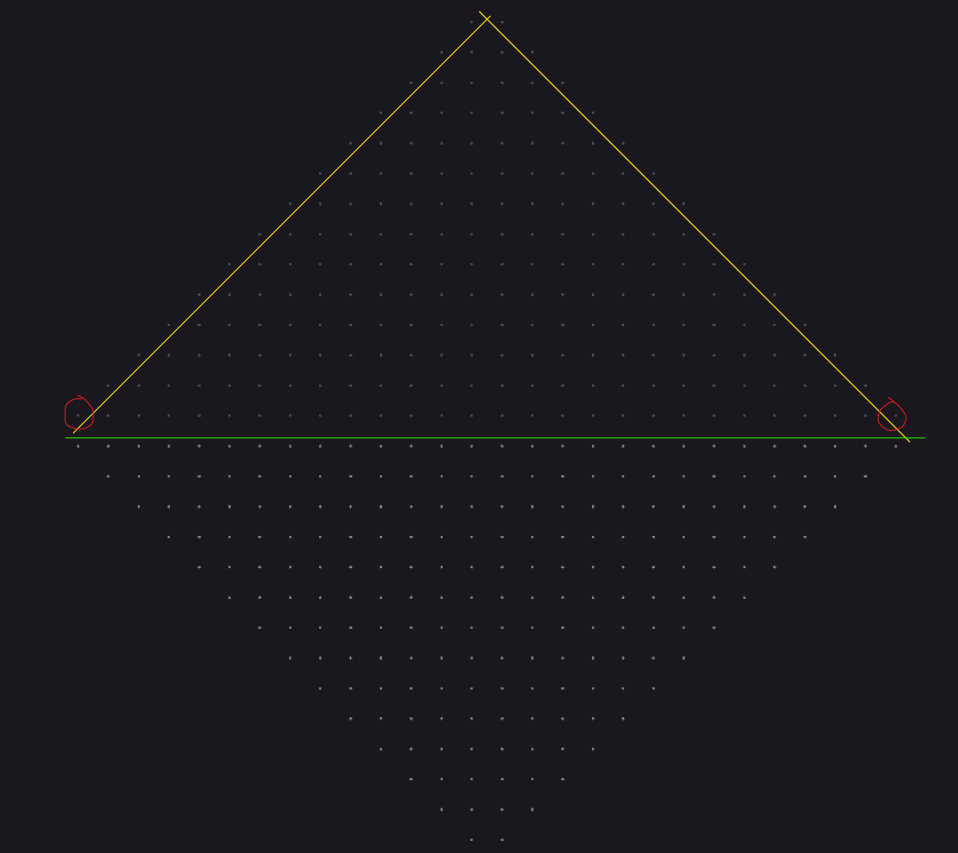
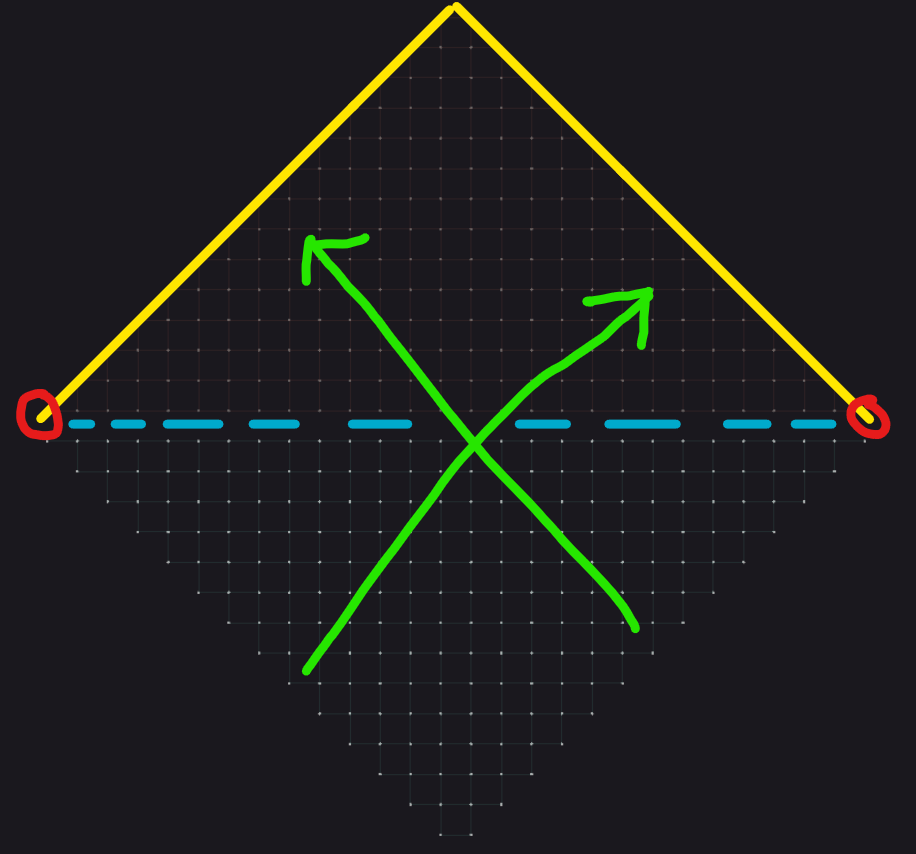
edited terminal post

diff --git a/_posts/2024-05-26-terminal24.md b/_posts/2024-05-26-terminal24.md
@@ -13,7 +13,7 @@ excerpt_separator: <!--more-->
 Our algorithm (in red) defeating the Season 8 global leaderboard leader algorithm.
 
 <!-- begin_excerpt -->
-During my 1st year spring term, I took part in a European regional competition, where 32 teams from all over the continent designed and coded algorithms to play a tower defence game called _Terminal_. Our algorithms were pitted against each other at the end of the week-long competition, where my team consisting of a friend and I achieved 6th place. After the competition, we spent some time adjusting our algorithm, where we achieved 10th position on the Season 8 Global Leaderboard.
+During my 1st year summer term, I took part in a European regional competition, where 32 teams from all over the continent designed and coded algorithms to play a tower defence game called _Terminal_. Our algorithms were pitted against each other at the end of the week-long competition, where my team consisting of a friend and I achieved 6th place. After the competition, we spent some time adjusting our algorithm, where we achieved 10th position on the Season 8 Global Leaderboard.
 <!-- end_excerpt -->
 
 ![t10](/assets/img/terminal-24/t10.png){: .mx-auto.d-block :}
@@ -35,27 +35,33 @@ Given the short amount of time and the large array of decisions, we decided that
 
 ![board](/assets/img/terminal-24/board.png){: .mx-auto.d-block :}
 
-Observing the board above and playing as the player on the lower half of the board (below the green line), we intend to score on the opponent's diagonal edges (the dots above the yellow line). We notice that given the diagonal shape of the board, the weakest parts of the board are actually the two corner locations (circled in red). 
+Observing the board above and playing as the player on the lower half of the board (below the blue line), we intend to score on the opponent's diagonal edges (the yellow lines) following the paths marked out in green. We notice that given the diagonal shape of the board, the weakest parts of the board are actually the two corner locations (circled in red).
 
-Since the oppponent is not able to place any units below the green line (that is friendly territory), there is a severe lack of defence in depth, which is exacerbated by the location's proximity to friendly lines.
+Since the oppponent is not able to place any units below the blue line (our friendly territory), there is a severe lack of defence in depth, which is exacerbated by the location's proximity to friendly lines.
 
 #### Predictable Path-Finding ####
 
-By reading through the documentation, we learnt that the path-finding AI of the individual units essentially seeks out the most exposed path to the opponent's edges. This meant that as long as there was an unobstructed path to the opponent's edge, the units would always choose that path to travel. This is in spite of how heavily defended that path is with ranged defence units on the enemy's sides (turrets).
+###### Defence ######
 
-To exploit this, we essentially designed our defence structure in such a way that we would "funnel" the enemy units through a technically unobstructed path. However, this would be the most heavily defended path, where we would place a large amount of turrets to attrite the enemy before it could reach the end.
+By reading through the documentation, we learnt that the path-finding AI of the individual units essentially seeks out the shortest path to the opponent's edge. This meant that as long as there was an unobstructed path to the opponent's edge, the units would always choose that path to travel. This is in spite of how heavily defended that path is with nearby ranged enemy defence units (turrets).
 
-This also allowed us to free up resources elsewhere and have weaker defences, as we could predict that the enemy units would always (at least aim to) go towards that heavily protected funnel due to their path-finding design.
+To exploit this, we designed our defence structure in such a way that we would "funnel" the enemy units through a technically open path. Against our funnel structure in red as seen below, the enemy assaulting units would take the green path, as it is technically clear of obstacles. However, the path travels through a heavily defende region, with a large amount of turrets attriting the enemy with ranged attacks before it reaches the end.
+
+![funnel](/assets/img/terminal-24/funnel.png){: .mx-auto.d-block :}
+
+This crucially allowed us to free up resources spending on defenses elsewhere, as we could predict that the enemy units would always (at least aim to) go towards that heavily protected funnel due to their path-finding design.
+
+###### Attack ######
+
+Finally, since we also wanted to exploit the corners of our enemy's defences, we designed a tunnel within friendly lines such that our units would have no clear path out but to push towards the corner positions of the enemy defences at the end of the tunnel (seen in the green path below). This allowed us to focus our assaulting units on the specific corner locations on the map.
 
 ![tunnel](/assets/img/terminal-24/tunnel.png){: .mx-auto.d-block :}
-
-Finally, since we also wanted to exploit the corners of our enemy's defences, we designed a tunnel within friendly lines such that our units would have no clear path out but to push towards the corner positions of the enemy defences at the end of the tunnel (seen in the green path above).
 
 #### High Self-Destructing Damage Potential ####
 
 In order for us to score on the targeted positions, we first had to destroy the defensive structure in that position. An important game mechanic we noted was that assaulting units that have no clear path to the enemy location would self-destruct themselves on an enemy defensive structure and generate a large amount of damage.
 
-This mechanic allowed us to be able to reliable destroy the enemy's destructive lines, making way for further units to score on that position. To achieve this, we separated our assaulting units into a "breaching" and "convoy" group. 
+This mechanic allowed us to be able to reliably destroy the enemy's destructive lines, making way for further units to score on that position. To achieve this, we separated our assaulting units into a "breaching" and "convoy" group. 
 
 ![tunnel](/assets/img/terminal-24/breaching.gif){: .mx-auto.d-block :}
 
